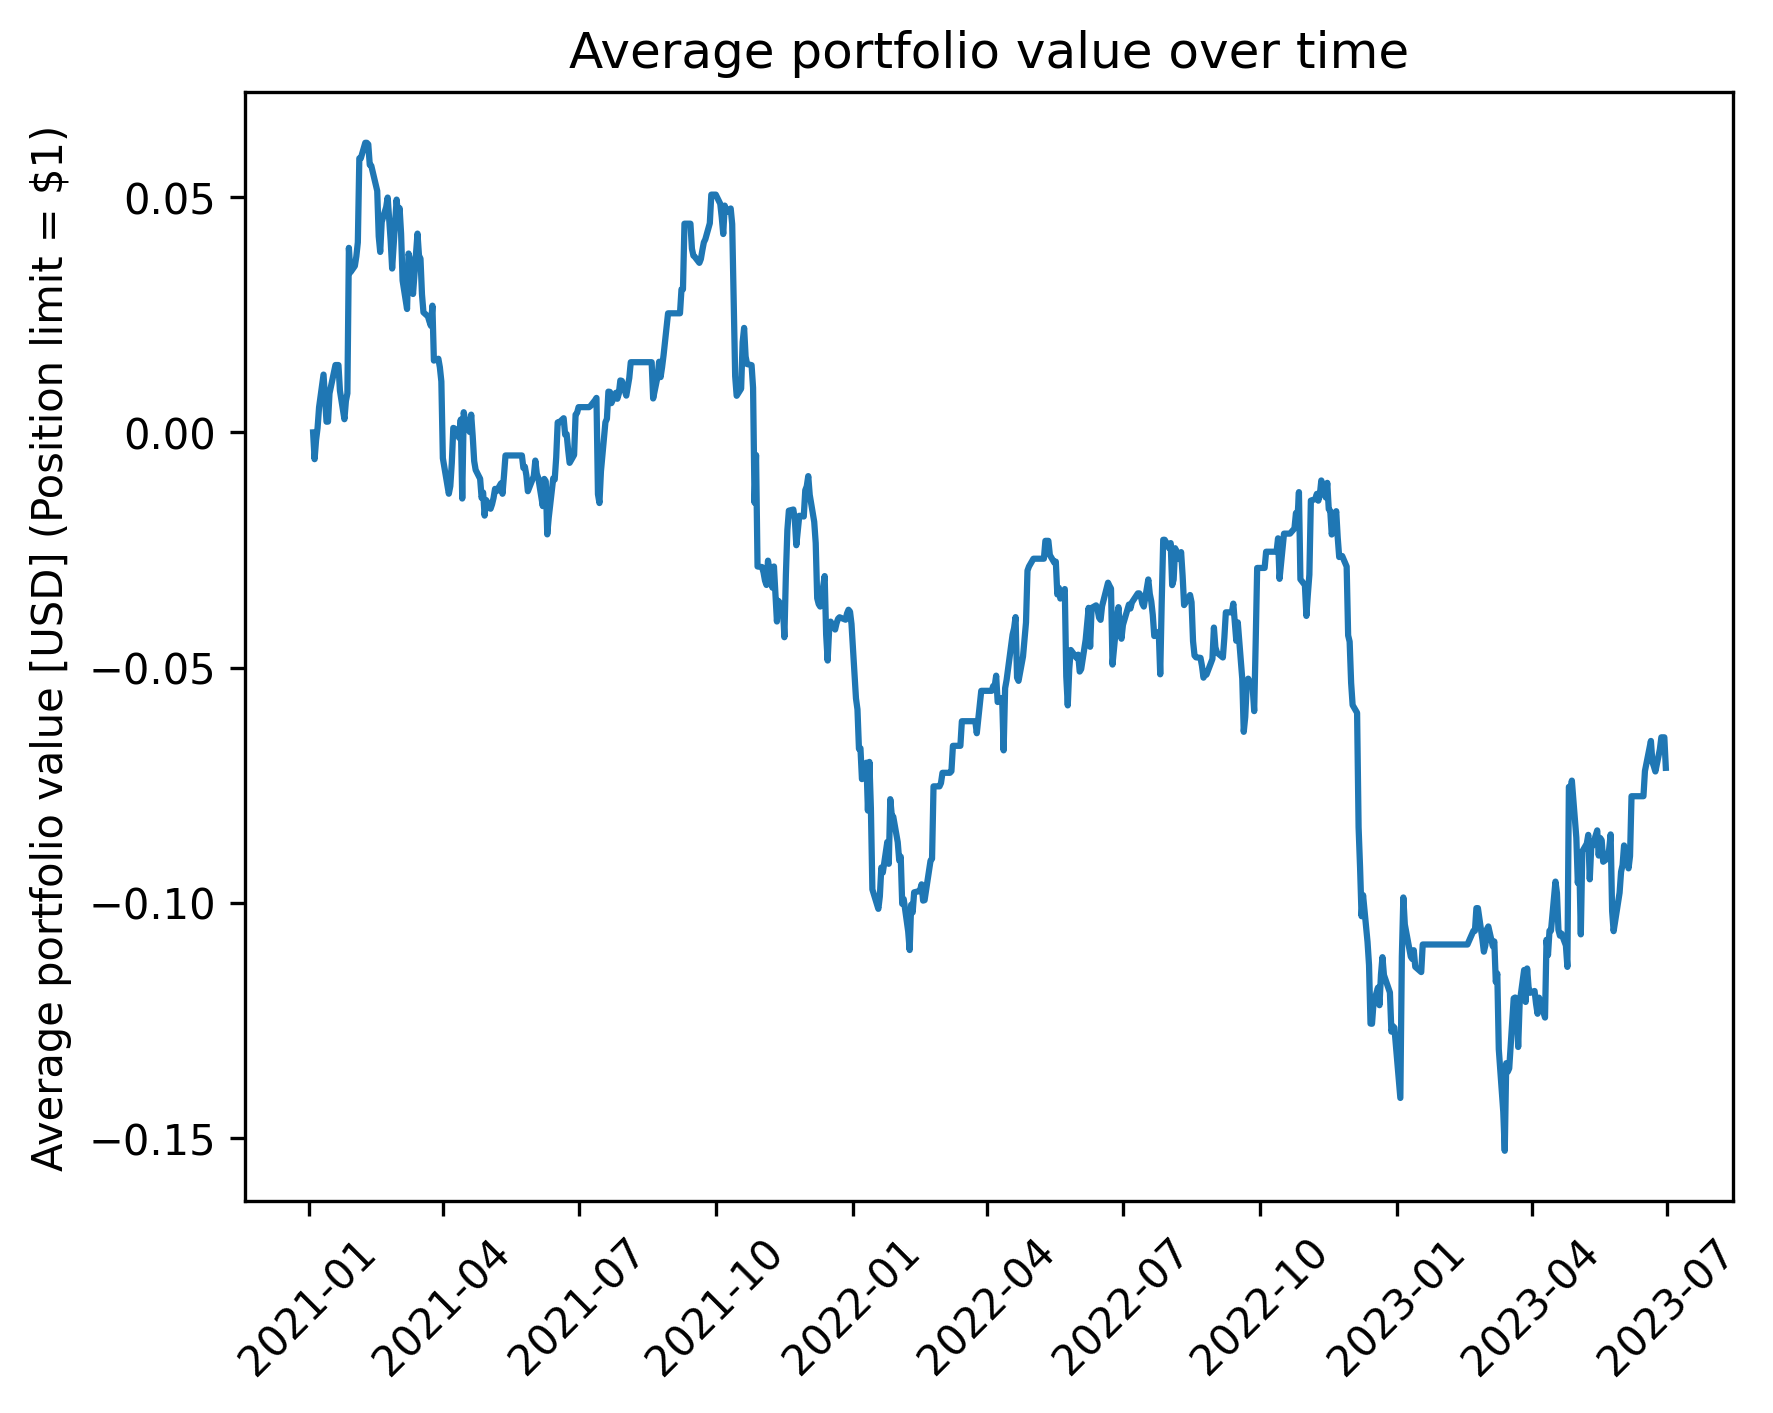
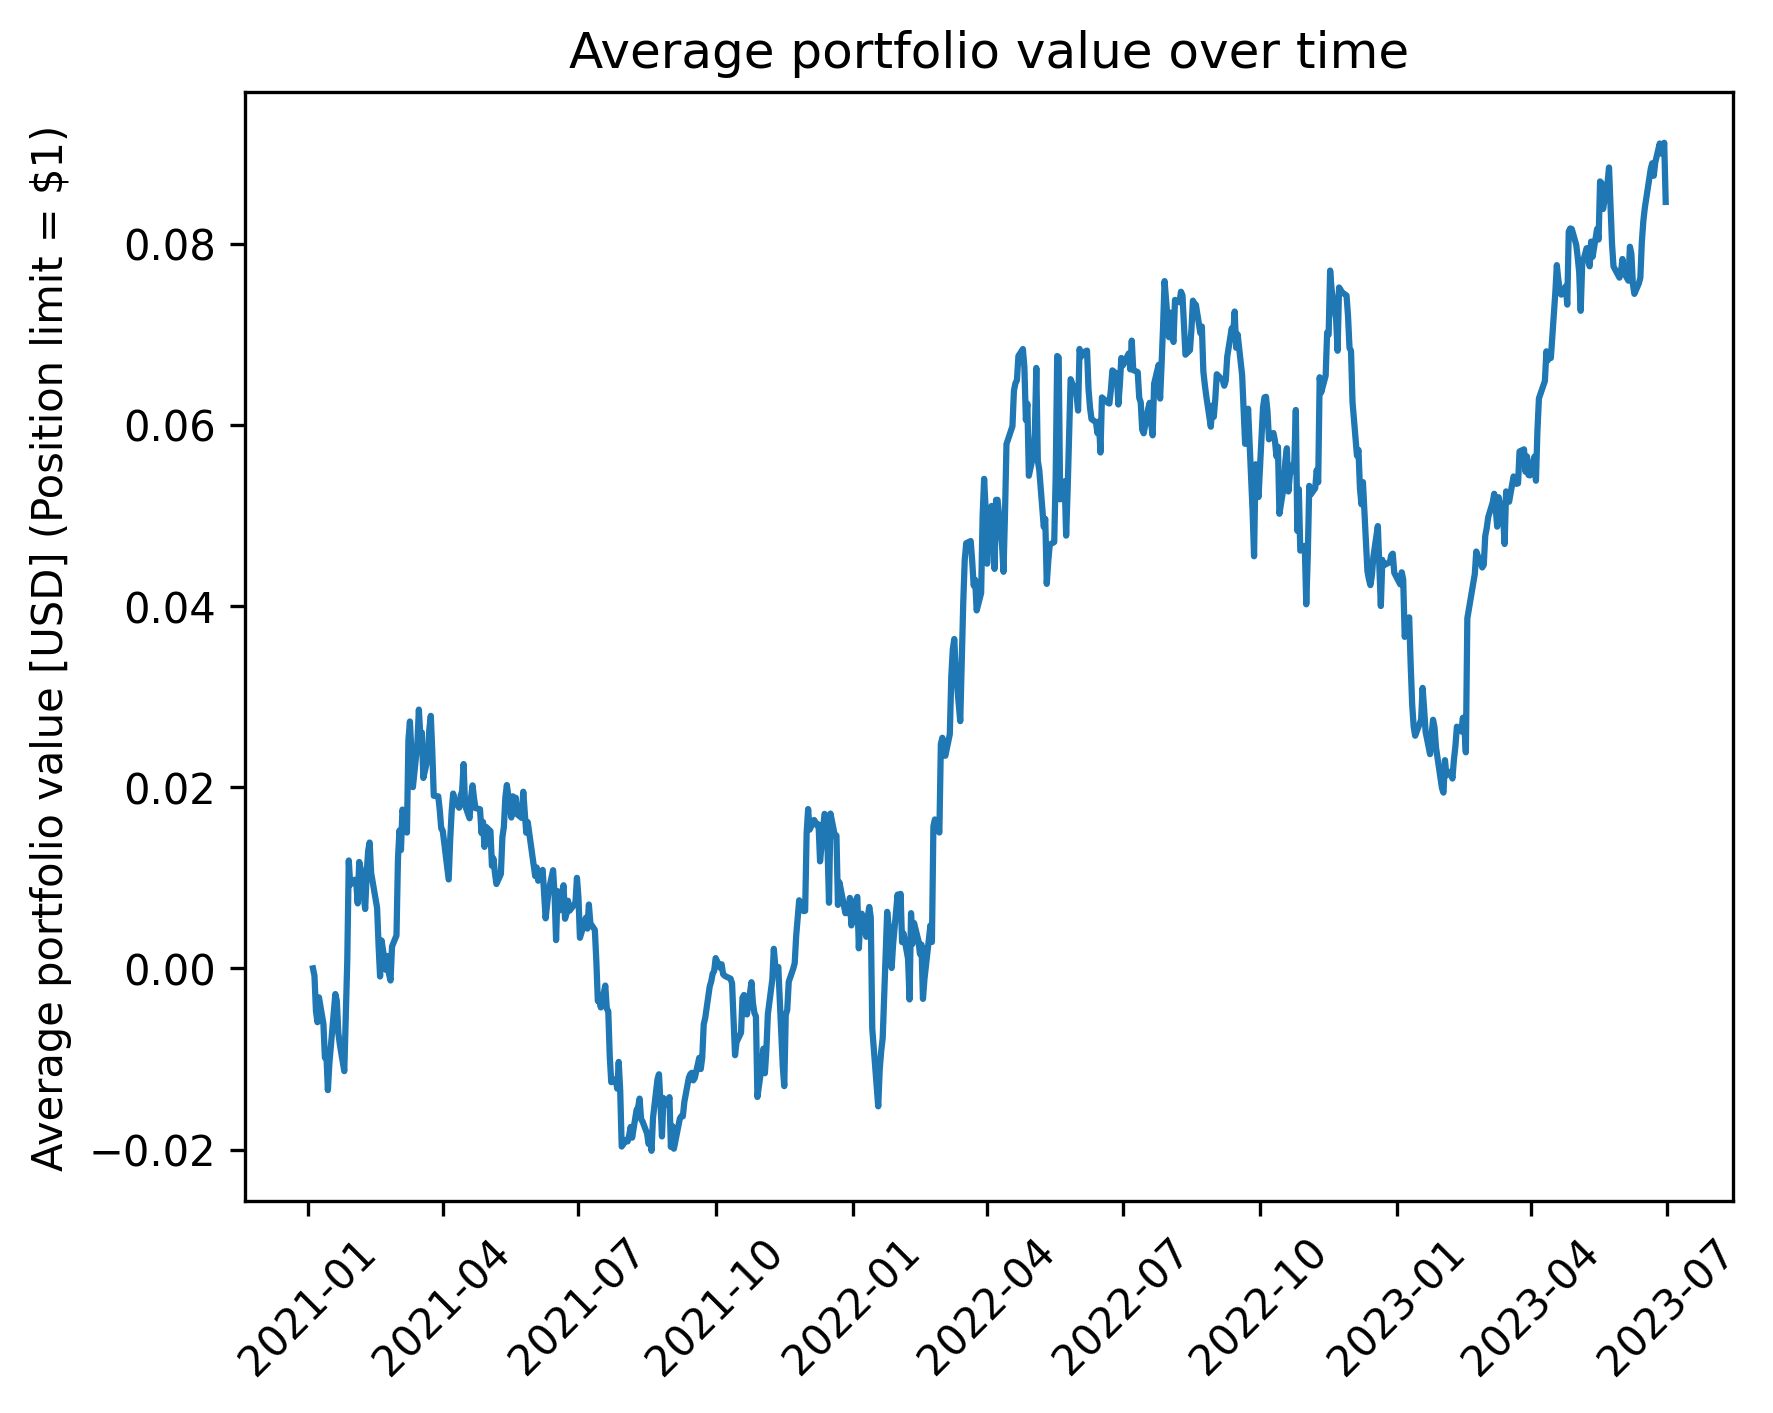
Added more pairs

diff --git a/pairs_trading_oaf/main.py b/pairs_trading_oaf/main.py
@@ -12,15 +12,27 @@ When we long stock A and short stock B, we buy position_limit worth of stock A a
 position_limit worth of stock B and vice versa when we long stock B and short stock A.
 """
 
+import time
 import matplotlib.pyplot as plt
 from pairs_trading_oaf import trading, portfolio, strategies, plotting
+
+tic = time.perf_counter()
 
 TRAINING_DATA_FNAME = "Price Data - CSV - Formation Period.csv"
 TESTING_DATA_FNAME = "Price Data - CSV - Trading Period.csv"
 POSITION_LIMIT = int(1e0)
+
 stock_pair_labels_list = [
     ("Microsoft Corporation (NasdaqGS:MSFT)", "Apple Inc. (NasdaqGS:AAPL)"),
     ("Bank of America Corporation (NYSE:BAC)", "JPMorgan Chase & Co. (NYSE:JPM)"),
+    ("Exxon Mobil Corporation (NYSE:XOM)", "Chevron Corporation (NYSE:CVX)"),
+    ("Walmart Inc. (NYSE:WMT)", "Target Corporation (NYSE:TGT)"),
+    ("The Coca-Cola Company (NYSE:KO)", "PepsiCo, Inc. (NasdaqGS:PEP)"),
+    ("Johnson & Johnson (NYSE:JNJ)", "Abbott Laboratories (NYSE:ABT)"),
+    ("The Procter & Gamble Company (NYSE:PG)", "Unilever PLC (LSE:ULVR)"),
+    ("The Boeing Company (NYSE:BA)", "Airbus SE (ENXTPA:AIR)"),
+    ("Caterpillar Inc. (NYSE:CAT)", "Deere & Company (NYSE:DE)"),
+    ("Wells Fargo & Company (NYSE:WFC)", "Citigroup Inc. (NYSE:C)"),
 ]
 StrategyClass = strategies.StrategyA
 
@@ -37,5 +49,8 @@ for stock_pair_labels in stock_pair_labels_list:
 trading.simulate_trading(master_portfolio)
 
 plotting.plot_portfolio_value_over_time(master_portfolio)
+
+toc = time.perf_counter()
+print(f"Time taken: {toc - tic:0.4f} seconds")
 
 plt.show()

diff --git a/pairs_trading_oaf/plotting.py b/pairs_trading_oaf/plotting.py
@@ -40,7 +40,8 @@ def plot_portfolio_value_over_time(master_portfolio):
 
     fig, ax = plt.subplots()
 
-    ax.plot(master_portfolio.pair_portfolios[0].dates_over_time, master_portfolio.average_portfolio_value_over_time())
+    ax.plot(master_portfolio.pair_portfolios[0].dates_over_time,
+            master_portfolio.average_portfolio_value_over_time())
     ax.set_ylabel('Average portfolio value [USD] (Position limit = $' +
                   f'{int(master_portfolio.position_limit):d})')
     plt.xticks(rotation=45)
